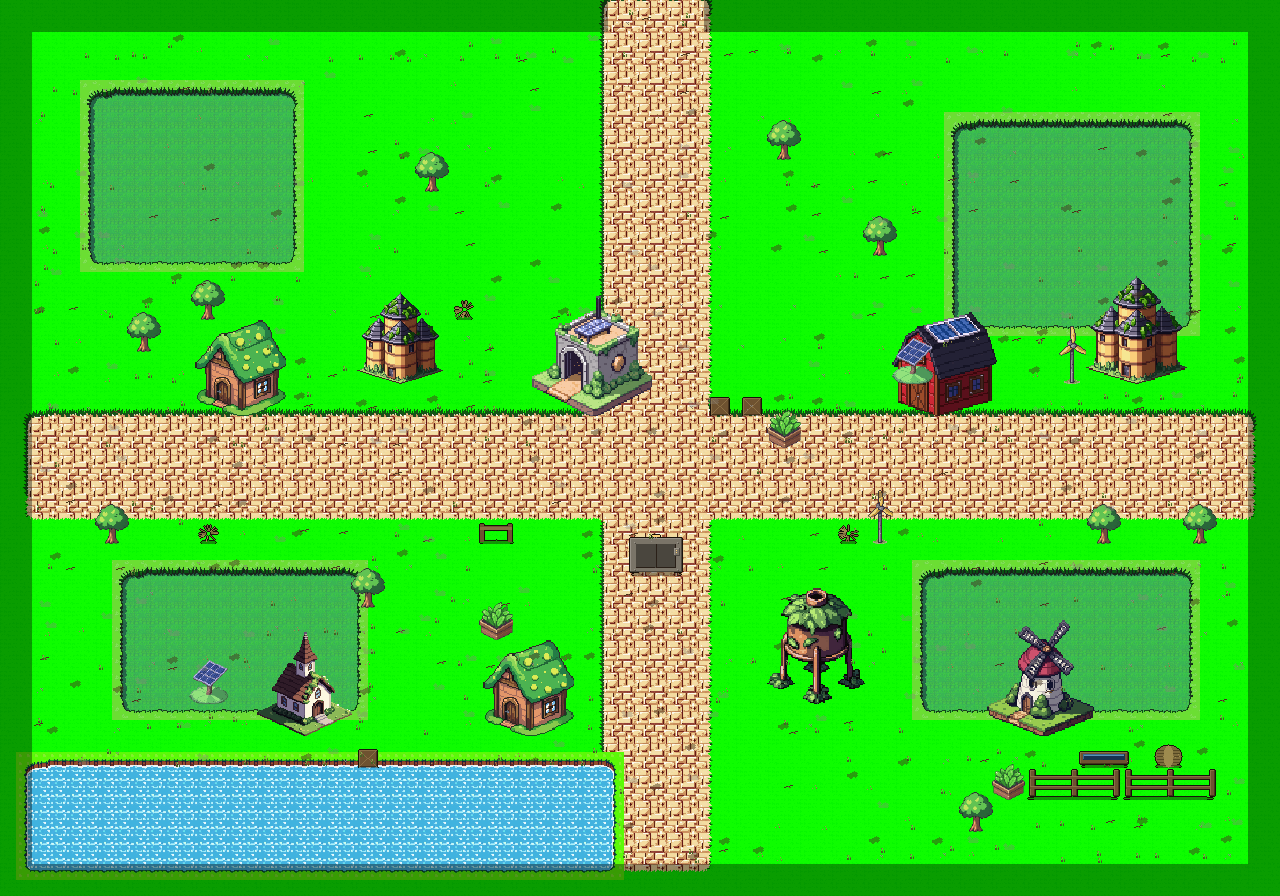
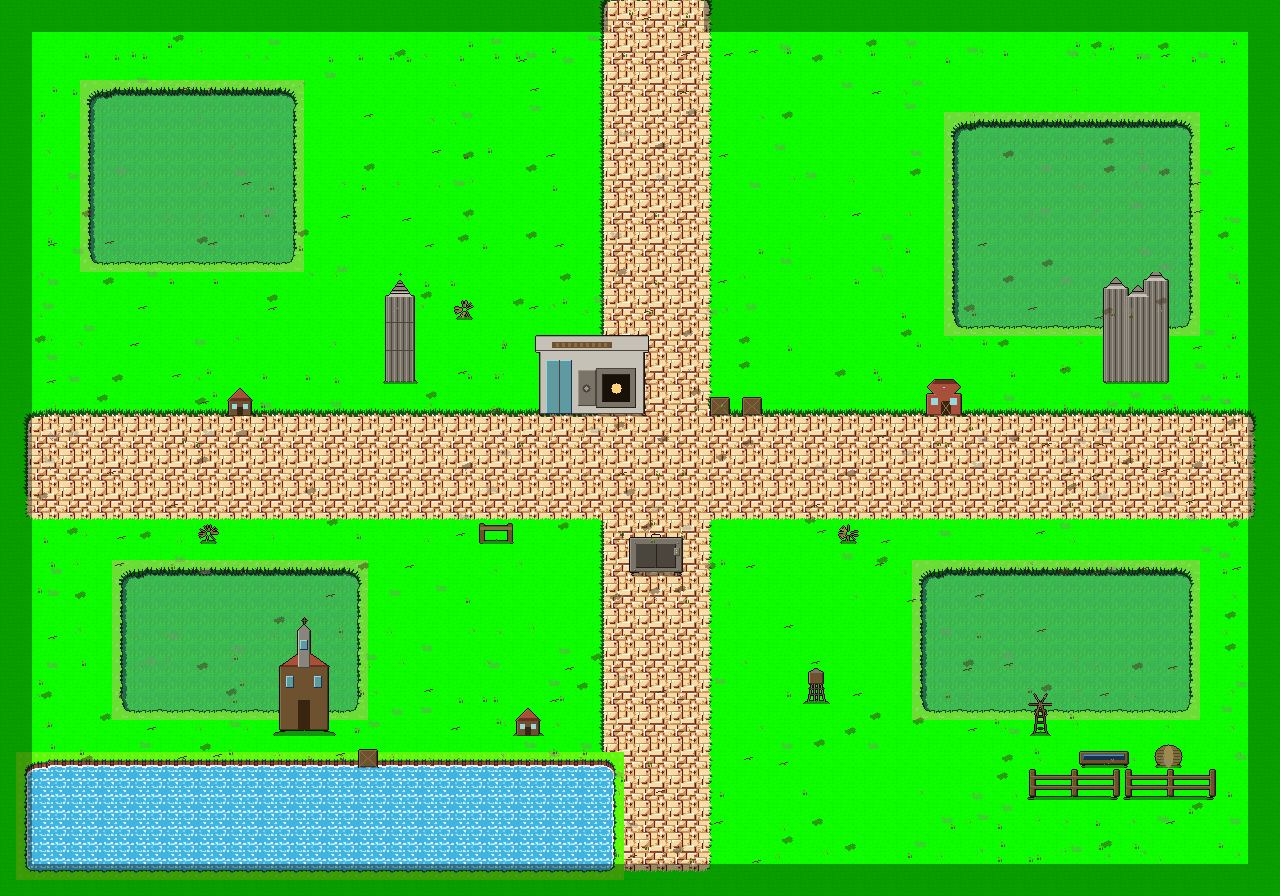
Revert Field + Farm Road buildings/props/trees to the flat grid-method assets
Per Mark: the PixelLab buildings read isometric and don't fit the flat
4-directional gameplay. Restored the hand-authored grid-method buildings (barn,
house, water tower, windmill, church, co-op vault, silos), the original
tumbleweed/crate/cattle dressing, and the animated grid-method trees. Kept the
flat Pokemon terrain (green grass + brick path) for now since it's flat and
matches the look Mark liked; terrain revert pending his call. NPC ids preserved.
Reachability verified, 141 tests green.

Claude-Session: https://claude.ai/code/session_011145P3mq8AKQQDw7ZjrAxF

diff --git a/tools/gen-field.ts b/tools/gen-field.ts
@@ -142,15 +142,15 @@ function bld(name: string, targetH: number): Sprite | null {
 }
 interface P { s: Sprite; col: number; row: number; solid?: number; }
 const objs: P[] = [
-  { s: bld('field_coopvault', 120) ?? coopVault(), col: 18, row: 12, solid: 3 }, // hero — the prologue Vault
-  { s: bld('field_barn', 104) ?? barn(), col: 29, row: 12, solid: 2 },
-  { s: bld('field_farmhouse', 96) ?? house(), col: 7, row: 12, solid: 2 },
-  { s: bld('field_silo', 108) ?? siloCluster(), col: 35, row: 11, solid: 2 },
-  { s: bld('field_silo', 92) ?? silo(), col: 12, row: 11, solid: 2 },
-  { s: bld('field_church', 104) ?? church(), col: 9, row: 22, solid: 3 },
-  { s: bld('field_watertower', 116) ?? watertower(), col: 25, row: 21, solid: 1 },
-  { s: bld('field_windmill', 116) ?? windmill(), col: 32, row: 22, solid: 1 },
-  { s: bld('field_farmhouse', 96) ?? house(), col: 16, row: 22, solid: 2 },
+  { s: coopVault(), col: 18, row: 12, solid: 3 }, // hero — the prologue Vault
+  { s: barn(), col: 29, row: 12, solid: 2 },
+  { s: house(), col: 7, row: 12, solid: 2 },
+  { s: siloCluster(), col: 35, row: 11, solid: 2 },
+  { s: silo(), col: 12, row: 11, solid: 2 },
+  { s: church(), col: 9, row: 22, solid: 3 },
+  { s: watertower(), col: 25, row: 21, solid: 1 },
+  { s: windmill(), col: 32, row: 22, solid: 1 },
+  { s: house(), col: 16, row: 22, solid: 2 },
   { s: elevatorHatch(), col: 20, row: 17, solid: 1 }, // spawn point
   // cattle pen (NE) + dressing
   { s: cattleFence(), col: 33, row: 24, solid: 1 },
@@ -167,24 +167,6 @@ const objs: P[] = [
   { s: crate(), col: 11, row: 23 },
 ];
 
-// solarpunk salvage props (only added if their PixelLab PNG generated) — solar
-// arrays, jury-rigged turbines, and reclaimed garden beds scattered through town
-const propSpots: Array<[string, number, number, number]> = [
-  ['field_solar', 28, 11, 46], ['field_solar', 6, 21, 44],
-  ['field_turbine', 33, 11, 58], ['field_turbine', 27, 16, 54],
-  ['field_planter', 24, 13, 38], ['field_planter', 15, 19, 38], ['field_planter', 31, 24, 36],
-];
-for (const [name, col, row, h] of propSpots) {
-  const s = bld(name, h);
-  if (s) objs.push({ s, col, row, solid: 1 });
-}
-
-// round Gen-4 Pokemon trees, baked as solid obstacles (replaces animated trees)
-const TREE_SPOTS: Array<[number, number]> = [[4, 10], [13, 5], [27, 7], [37, 16], [3, 16], [34, 16], [6, 9], [24, 4], [11, 18], [30, 25]];
-for (const [col, row] of TREE_SPOTS) {
-  const s = bld('field_tree', 40);
-  if (s && MAP[row]?.[col] === 'g') objs.push({ s, col, row, solid: 1 });
-}
 
 const big = new Sprite(W, H);
 const blit = (s: Sprite, x0: number, y0: number, over = true): void => {
@@ -294,8 +276,10 @@ for (let r = 0; r < ROWS; r++)
     grassAny.push(ch === 'T' || ch === 'g' ? 1 : 0);
     waterArr.push(ch === 'w' ? 1 : 0);
   }
-// trees are now baked Pokemon-style sprites (above) — no animated placements
+// trees as animated placements (FieldHDScene draws trunk + swaying leaves)
 const placements: Array<{ type: string; col: number; row: number }> = [];
+const treeSpots: Array<[number, number]> = [[4, 10], [13, 5], [27, 7], [37, 16], [3, 16], [34, 16], [6, 9], [24, 4], [11, 18], [30, 25]];
+for (const [c, r] of treeSpots) if (!extraSolid.has(`${c},${r}`) && MAP[r]?.[c] !== 'w' && MAP[r]?.[c] !== 'd') placements.push({ type: 'tree', col: c, row: r });
 
 writeFileSync(
   join(OUT, 'the-field.json'),

diff --git a/tools/gen-farmroad.ts b/tools/gen-farmroad.ts
@@ -98,26 +98,12 @@ const LEDGES: Array<{ col: number; row: number; dir: 's' }> = [
 // props (baked) — the cotton gin (barn), the water-tower lookout, dressing
 interface P { s: Sprite; col: number; row: number; solid?: number; }
 const objs: P[] = [
-  { s: loadBuilding('field_cottongin', 116) ?? barn(), col: 22, row: 6, solid: 1 }, // the abandoned cotton gin
-  { s: loadBuilding('field_watertower', 116) ?? watertower(), col: 5, row: 8, solid: 1 }, // the lookout
+  { s: barn(), col: 22, row: 6, solid: 1 }, // the abandoned cotton gin
+  { s: watertower(), col: 5, row: 8, solid: 1 }, // the lookout
   { s: tumbleweed(1), col: 16, row: 26 },
   { s: tumbleweed(2), col: 23, row: 17 },
   { s: tumbleweed(3), col: 6, row: 20 },
 ];
-// solarpunk salvage dressing along the road (only if their PNGs exist)
-const propSpots: Array<[string, number, number, number]> = [
-  ['field_solar', 21, 22, 44], ['field_turbine', 6, 12, 56],
-  ['field_planter', 16, 25, 36], ['field_planter', 23, 14, 36],
-];
-for (const [name, col, row, h] of propSpots) {
-  const s = loadBuilding(name, h);
-  if (s) objs.push({ s, col, row, solid: 1 });
-}
-// round Gen-4 Pokemon trees, baked as solid obstacles (replaces animated trees)
-for (const [col, row] of [[4, 6], [23, 12], [5, 18], [22, 24], [10, 12]] as Array<[number, number]>) {
-  const s = loadBuilding('field_tree', 40);
-  if (s && MAP[row]?.[col] === 'g') objs.push({ s, col, row, solid: 1 });
-}
 
 const big = new Sprite(W, H);
 const blit = (s: Sprite, x0: number, y0: number, over = true): void => {
@@ -189,7 +175,8 @@ for (let r = 0; r < ROWS; r++)
     grass.push(ch === 'T' ? 1 : 0);
     grassAny.push(ch === 'T' || ch === 'g' ? 1 : 0);
   }
-// trees are now baked Pokemon-style sprites (above) — no animated placements
+for (const [c, r] of [[4, 6], [23, 12], [5, 18], [22, 24], [10, 12]] as Array<[number, number]>)
+  if (!extraSolid.has(`${c},${r}`) && MAP[r]?.[c] === 'g') placements.push({ type: 'tree', col: c, row: r });
 
 writeFileSync(
   join(OUT, 'farmroad.json'),
